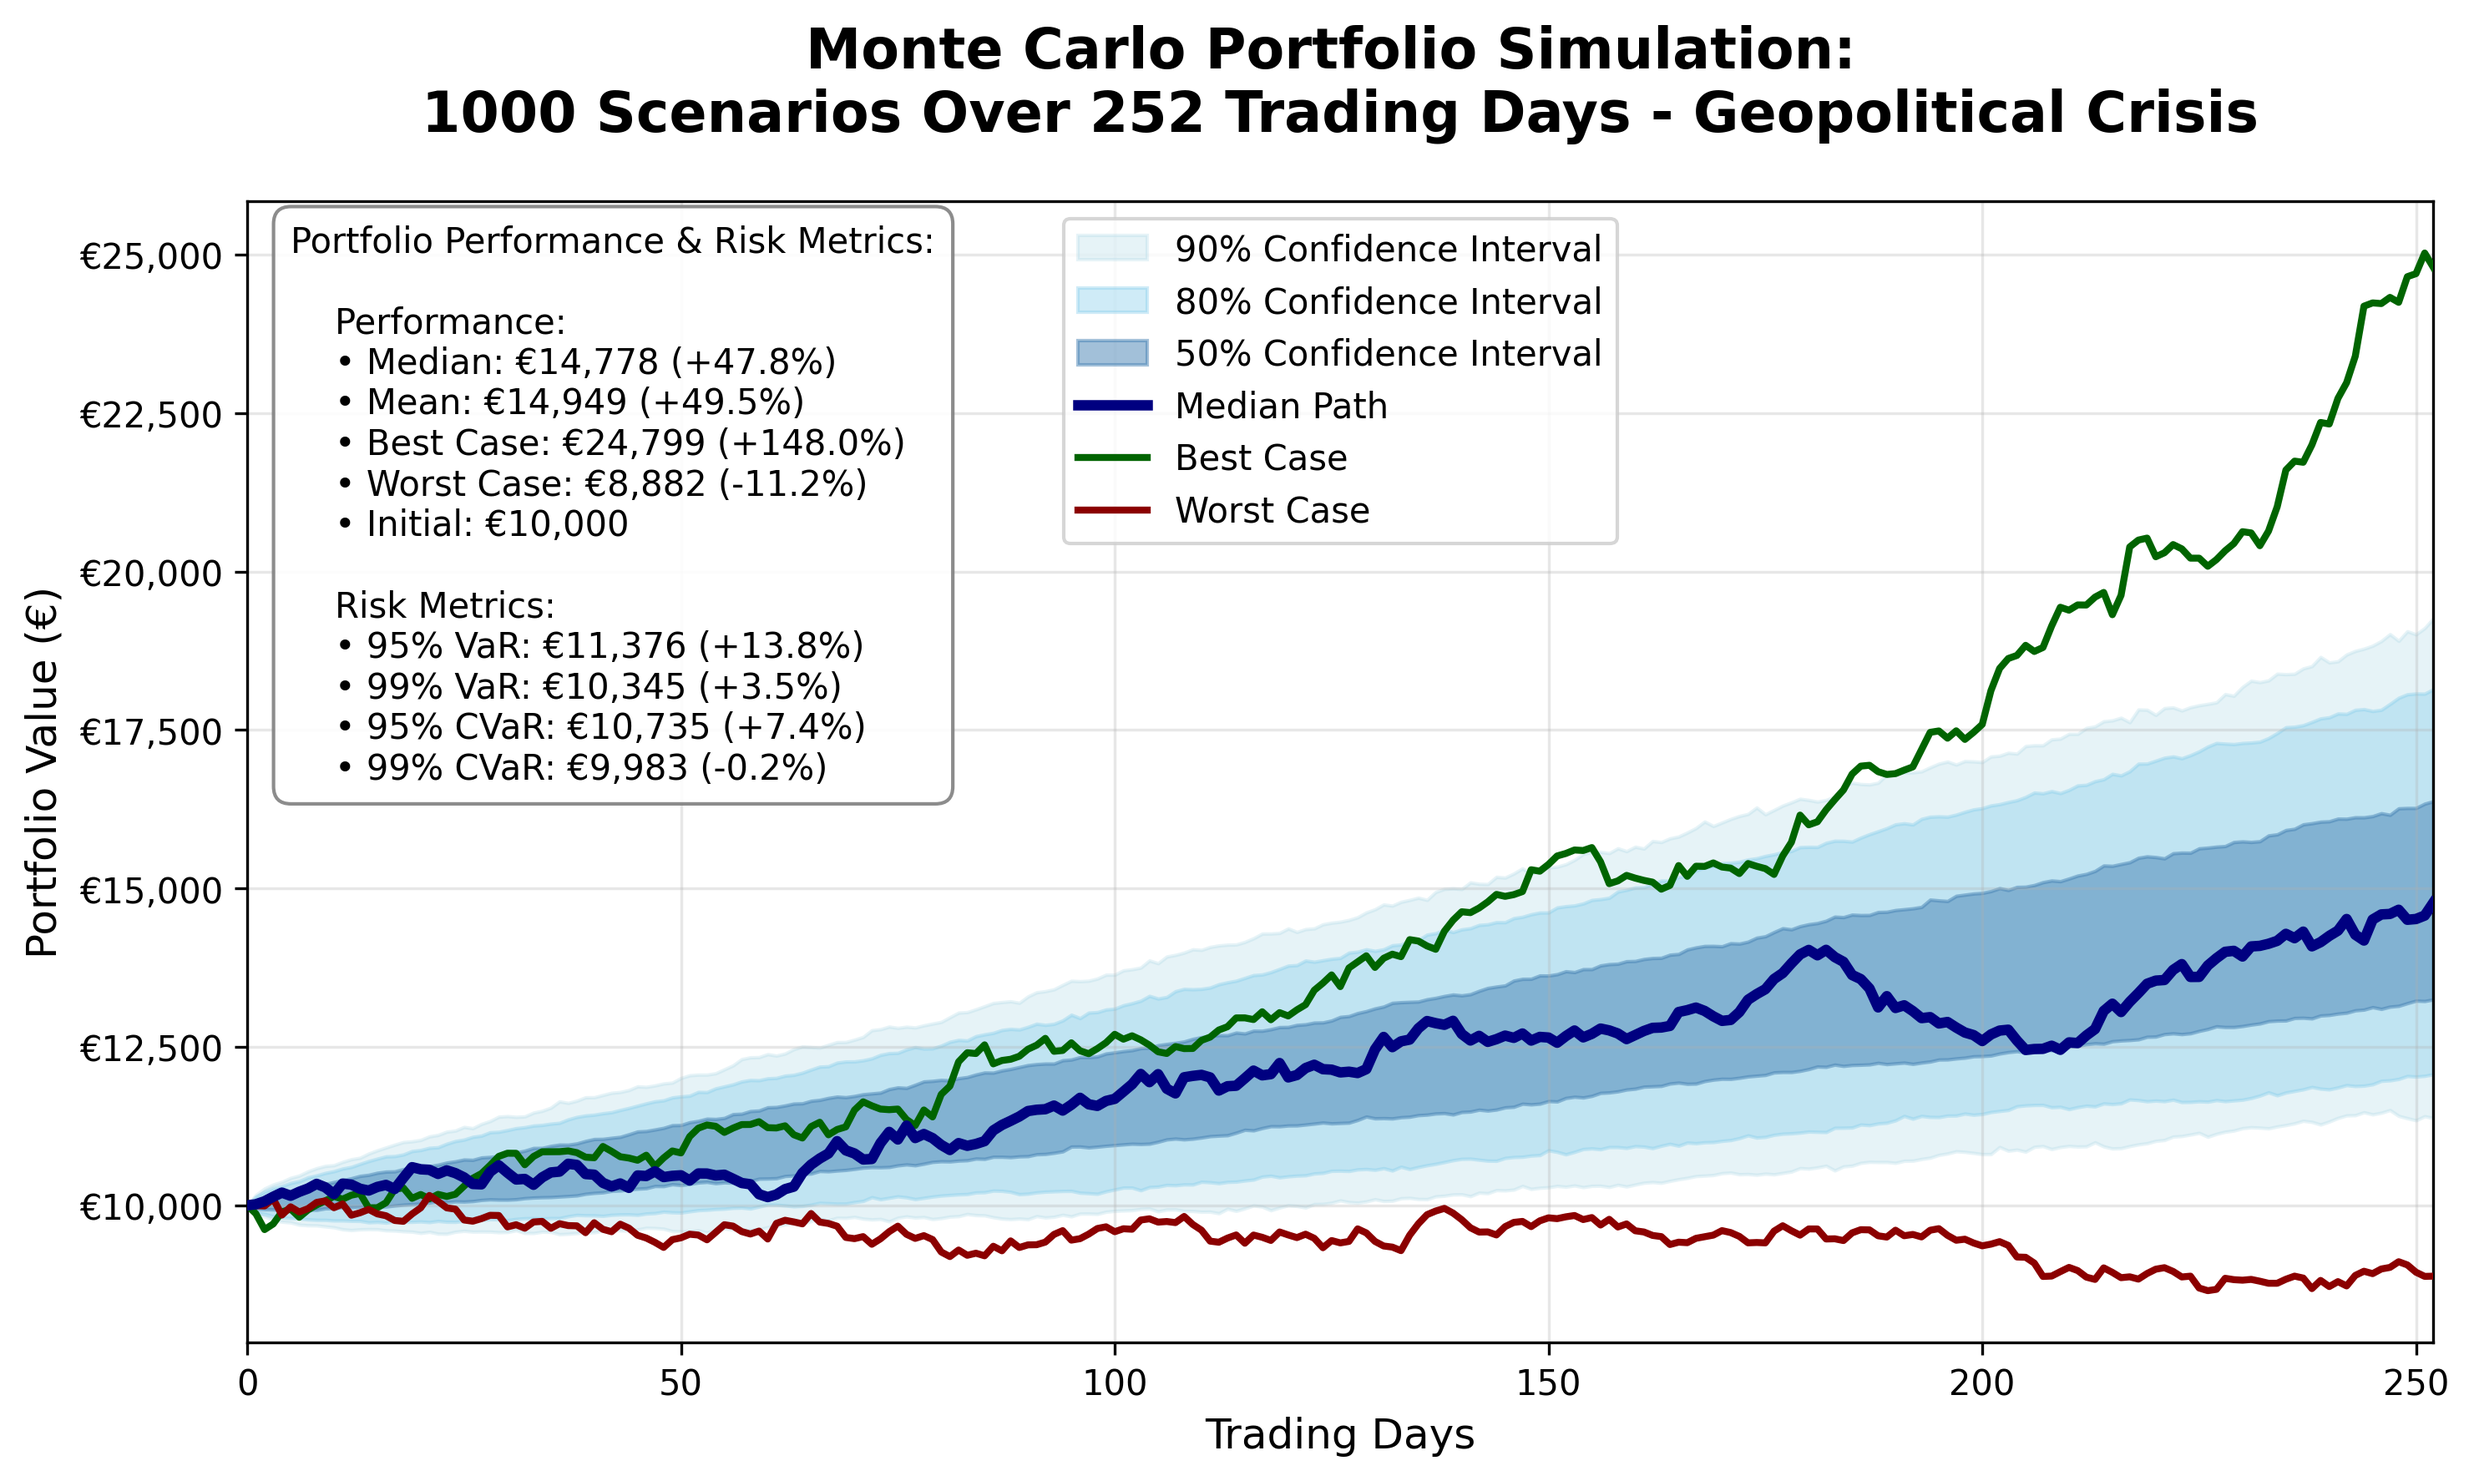
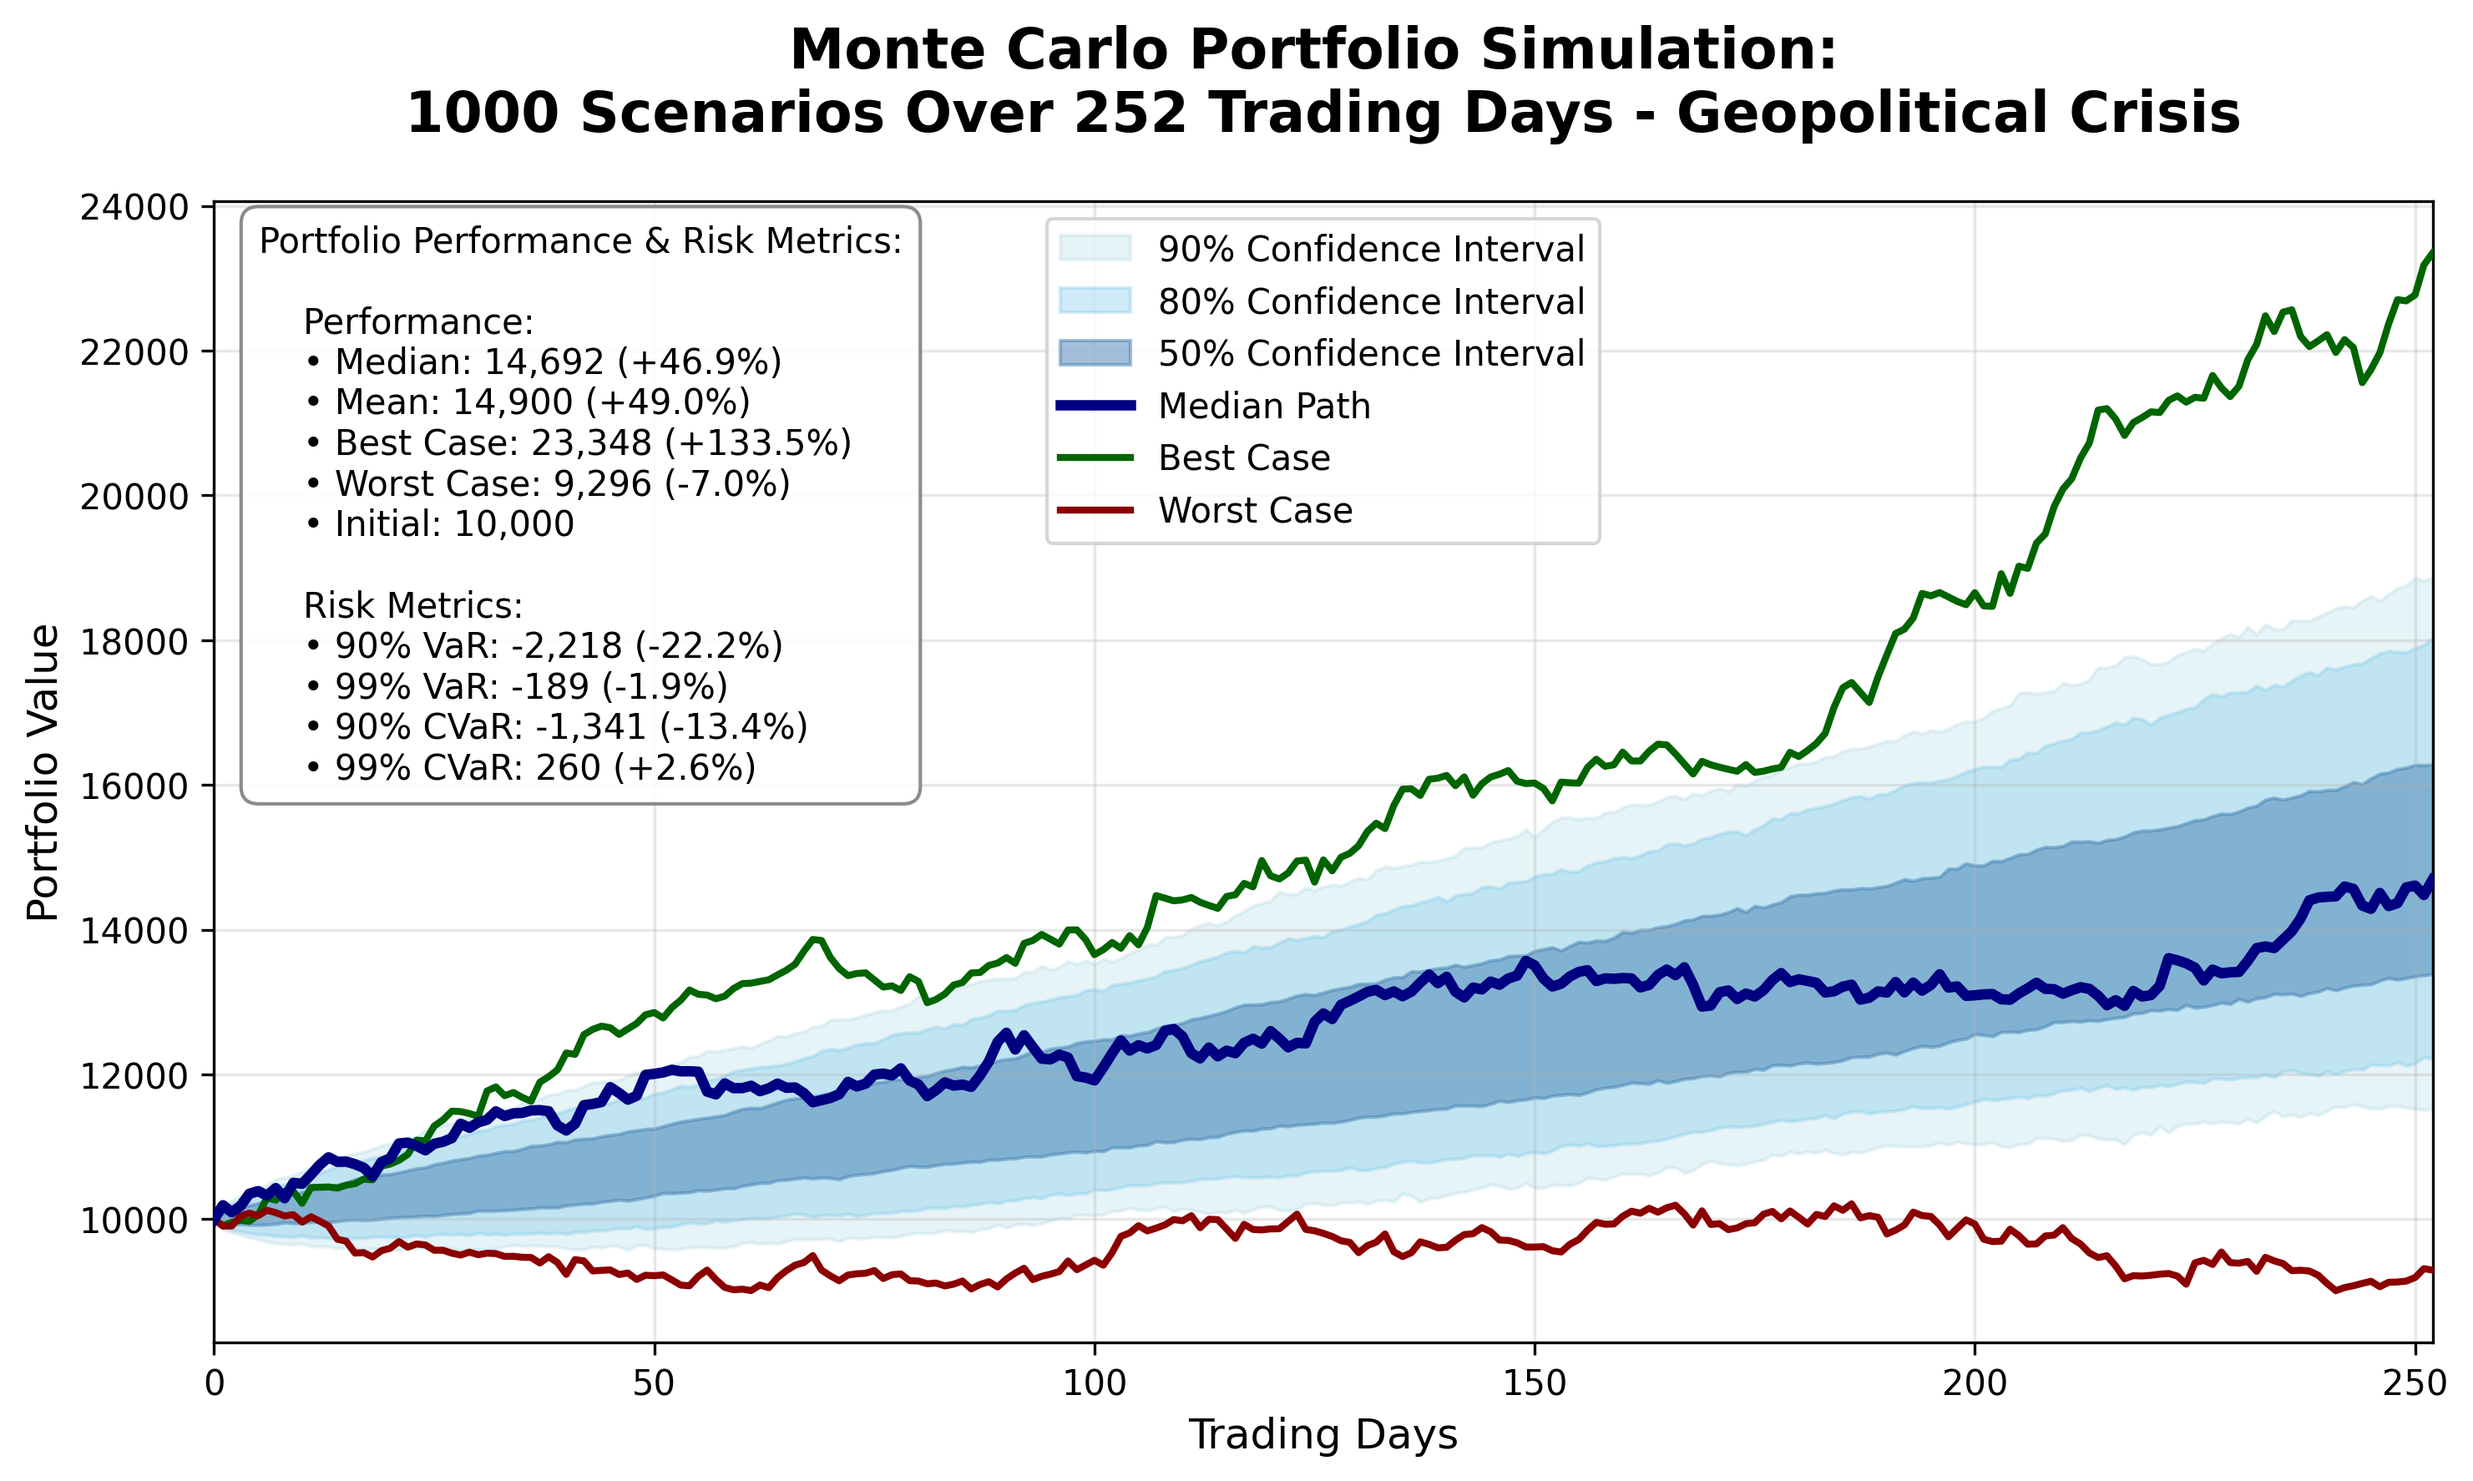
Refactor risk metrics calculation and visualization updates
- Updated risk metrics calculations in `monte_carlo.py` to include 90% Value at Risk (VaR) and Conditional Value at Risk (CVaR) alongside 99% metrics, enhancing risk assessment accuracy.
- Adjusted visualization in `visualization.py` to reflect the new risk metrics, ensuring consistency in displayed data.
- Modified CORS settings in `app.py` for local development, consolidating allowed origins for improved testing.
- Enhanced `CustomPortfolioForm.tsx` to ensure proper state management when adding default asset and regime factor values.
- Marked tasks MC-007 and MC-010 as completed in `tasks/simulation-backend.md`, reflecting progress in risk metrics and covariance analysis.

diff --git a/frontend/src/pages/CustomPortfolioForm.tsx b/frontend/src/pages/CustomPortfolioForm.tsx
@@ -97,11 +97,11 @@ function formReducer(
         ...currentFormData,
         portfolio_assets: [
           ...currentFormData.portfolio_assets,
-          DEFAULT_ASSET_VALUES,
+          { ...DEFAULT_ASSET_VALUES },
         ],
         portfolio_factors: [
           ...currentFormData.portfolio_factors,
-          DEFAULT_REGIME_FACTOR_VALUES,
+          { ...DEFAULT_REGIME_FACTOR_VALUES },
         ],
       };
     case "REMOVE_ASSET":

diff --git a/api/monte_carlo.py b/api/monte_carlo.py
@@ -66,37 +66,42 @@ def calculate_risk_metrics(portfolio_paths):
 
     Parameters:
         portfolio_paths (list): List of portfolio value paths.
-        initial_value (float): Initial portfolio value for percentage calculations.
 
     Returns:
         dict: Dictionary containing risk metrics with euro amounts and percentages.
     """
-
+    initial_value = portfolio_paths[0][0]
     final_values = [path[-1] for path in portfolio_paths]
 
-    # Value at Risk
-    var_95 = np.percentile(final_values, 5)
-    var_99 = np.percentile(final_values, 1)
+    # Calculate losses: L = -(V_T / V_0 - 1) = -(final/initial - 1)
+    losses = [-(final_value / initial_value - 1) for final_value in final_values]
 
-    # Conditional Value at Risk
-    cvar_95 = np.mean([v for v in final_values if v <= var_95])
-    cvar_99 = np.mean([v for v in final_values if v <= var_99])
+    # Value at Risk at 90% and 99% confidence levels
+    var_90 = np.percentile(losses, 90)
+    var_99 = np.percentile(losses, 99)
 
-    initial_value = portfolio_paths[0][0]
-    var_95_pct = ((var_95 / initial_value) - 1) * 100
-    var_99_pct = ((var_99 / initial_value) - 1) * 100
-    cvar_95_pct = ((cvar_95 / initial_value) - 1) * 100
-    cvar_99_pct = ((cvar_99 / initial_value) - 1) * 100
+    # Conditional Value at Risk (Expected Shortfall) with empty tail guard
+    tail_90 = [l for l in losses if l >= var_90]
+    tail_99 = [l for l in losses if l >= var_99]
+
+    cvar_90 = np.mean(tail_90) if tail_90 else var_90
+    cvar_99 = np.mean(tail_99) if tail_99 else var_99
+
+    # Convert to absolute loss amounts
+    var_90_abs = var_90 * initial_value
+    var_99_abs = var_99 * initial_value
+    cvar_90_abs = cvar_90 * initial_value
+    cvar_99_abs = cvar_99 * initial_value
 
     return {
-        "var_95": var_95,
-        "var_99": var_99,
-        "cvar_95": cvar_95,
-        "cvar_99": cvar_99,
-        "var_95_pct": var_95_pct,
-        "var_99_pct": var_99_pct,
-        "cvar_95_pct": cvar_95_pct,
-        "cvar_99_pct": cvar_99_pct,
+        "var_90": var_90_abs,
+        "var_99": var_99_abs,
+        "cvar_90": cvar_90_abs,
+        "cvar_99": cvar_99_abs,
+        "var_90_pct": var_90 * 100,
+        "var_99_pct": var_99 * 100,
+        "cvar_90_pct": cvar_90 * 100,
+        "cvar_99_pct": cvar_99 * 100,
     }
 
 
@@ -242,7 +247,7 @@ def analyze_portfolio_risk_factors(cov_matrix):
             - 'dominant_factor_loadings': dict mapping PC index (1-based) to list of top asset contributors (dicts with 'asset' and 'pct')
             - 'explained_variance_dominant': float, total variance explained by dominant PCs (as a percentage)
     """
-    eigenvalues, eigenvectors = np.linalg.eig(cov_matrix.values)
+    eigenvalues, eigenvectors = np.linalg.eigh(cov_matrix.values)
 
     # Sort eigenvalues and eigenvectors from largest to smallest
     idx = np.argsort(eigenvalues)[::-1]
@@ -311,9 +316,16 @@ def analyze_portfolio_correlation(cov_matrix):
     Returns:
         dict: Condition number, correlation matrix, and stdev outer product.
     """
-    eigenvalues, _ = np.linalg.eig(cov_matrix.values)
+    eigenvalues, _ = np.linalg.eigh(cov_matrix.values)
 
-    condition_number = max(eigenvalues) / min(eigenvalues)
+    # Conditioning diagnostics
+    min_eigenvalue = min(eigenvalues)
+    max_eigenvalue = max(eigenvalues)
+    condition_number = max_eigenvalue / min_eigenvalue if min_eigenvalue > 0 else np.inf
+
+    # PSD validation (tolerance for numerical precision)
+    tolerance = 1e-8
+    is_psd = min_eigenvalue >= -tolerance
 
     # Compute correlation matrix
     std_devs = np.sqrt(np.diag(cov_matrix.values))
@@ -327,6 +339,9 @@ def analyze_portfolio_correlation(cov_matrix):
 
     return {
         "condition_number": condition_number,
+        "min_eigenvalue": min_eigenvalue,
+        "max_eigenvalue": max_eigenvalue,
+        "is_psd": is_psd,
         "correlation_matrix": corr_matrix_df,
         "stdev_outer_product": stdev_outer_product,
     }

diff --git a/api/visualization.py b/api/visualization.py
@@ -118,9 +118,9 @@ def plot_simulation_results(portfolio_paths, regime_name, show=True):
     • Initial: {perf_stats['initial_value']:,.0f}
 
     Risk Metrics:
-    • 95% VaR: {risk_metrics['var_95']:,.0f} ({risk_metrics['var_95_pct']:+.1f}%)
+    • 90% VaR: {risk_metrics['var_90']:,.0f} ({risk_metrics['var_90_pct']:+.1f}%)
     • 99% VaR: {risk_metrics['var_99']:,.0f} ({risk_metrics['var_99_pct']:+.1f}%)
-    • 95% CVaR: {risk_metrics['cvar_95']:,.0f} ({risk_metrics['cvar_95_pct']:+.1f}%)
+    • 90% CVaR: {risk_metrics['cvar_90']:,.0f} ({risk_metrics['cvar_90_pct']:+.1f}%)
     • 99% CVaR: {risk_metrics['cvar_99']:,.0f} ({risk_metrics['cvar_99_pct']:+.1f}%)"""
 
     plt.text(
@@ -175,11 +175,13 @@ def plot_correlation_heatmap(cov_matrix, regime_name, show=True):
     analysis = analyze_portfolio_correlation(cov_matrix)
     corr_matrix = analysis["correlation_matrix"]
     condition_number = analysis["condition_number"]
+    is_psd = analysis.get("is_psd", True)
+    min_eigenvalue = analysis.get("min_eigenvalue", float("nan"))
     cond_color = ""
 
-    # Determine conditioning status (arbitrary threshold: < 100 is 'Well', else 'Poorly')
-    if condition_number < 0:
-        cond_status = "Invalid (Negative Eigenvalues)"
+    # Determine status using PSD (Positive Semi-Definite) first, then conditioning
+    if not is_psd:
+        cond_status = f"Not PSD (min eigenvalue = {min_eigenvalue:.2e})"
         cond_color = "red"
     elif condition_number < 100:
         cond_status = "Well Conditioned"
@@ -211,10 +213,16 @@ def plot_correlation_heatmap(cov_matrix, regime_name, show=True):
         pad=20,
     )
 
+    display_condition = (
+        "N/A"
+        if not is_psd
+        else ("∞" if not np.isfinite(condition_number) else f"{condition_number:.1f}")
+    )
+
     plt.text(
         0.5,
         1.005,
-        f"Condition Number: {condition_number:.1f} - {cond_status}",
+        f"Condition Number: {display_condition} • {cond_status}",
         fontsize=12,
         color=cond_color,
         ha="center",

diff --git a/api/app.py b/api/app.py
@@ -24,8 +24,7 @@ app = FastAPI(title="Monte Carlo Portfolio Simulator API")
 app.add_middleware(
     CORSMiddleware,
     allow_origins=[
-        "http://localhost:4173",  # Local production testing
-        "http://localhost:5173",  # Local dev
+        "http://localhost:8080",  # Local dev and preview
         "https://mc-frontend-668378177815.europe-west1.run.app",  # GCP Cloud Run frontend
     ],
     allow_credentials=True,

diff --git a/tasks/simulation-backend.md b/tasks/simulation-backend.md
@@ -130,7 +130,7 @@ Add statistics text box on the plot
 Include proper axis labels and title
 
 MC-007: Calculate Risk Metrics
-Status: In Progress
+Status: Completed
 Priority: High
 Dependencies: MC-006
 
@@ -213,7 +213,7 @@ Explain key concepts and statistical methodology
 Provide examples of how to interpret results
 
 MC-010: Covariance Matrix Deep Analysis
-Status: In Progress
+Status: Completed
 Priority: High
 Dependencies: MC-003
 
@@ -226,7 +226,7 @@ Identify dominant risk factors (top 2-3 eigenvalues)
 Create correlation matrix heatmap visualization
 Compute conditioning diagnostics (condition number and min eigenvalue)
 Validate PSD after any covariance/correlation modification (min eigenvalue ≥ tolerance)
-If needed, apply nearest-PSD projection and re-validate
+If needed, apply nearest-PSD projection and re-validate # Note: PSD projection intentionally omitted by design to let users see invalid matrices
 Add interpretation text explaining main risk drivers
 
 Technical Notes
